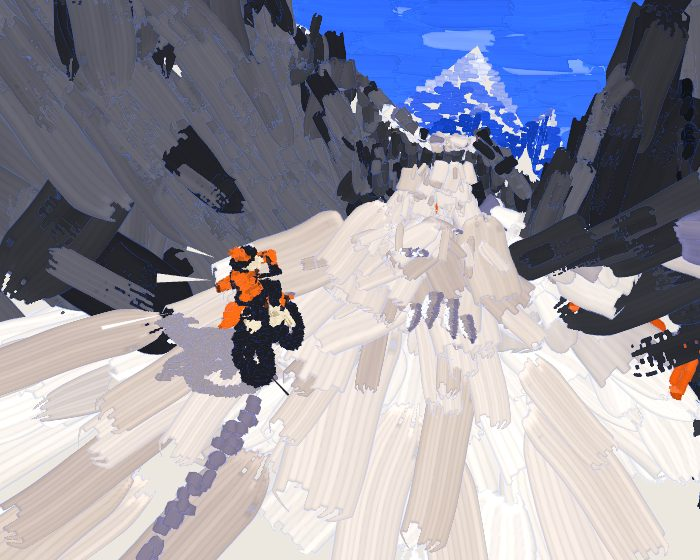
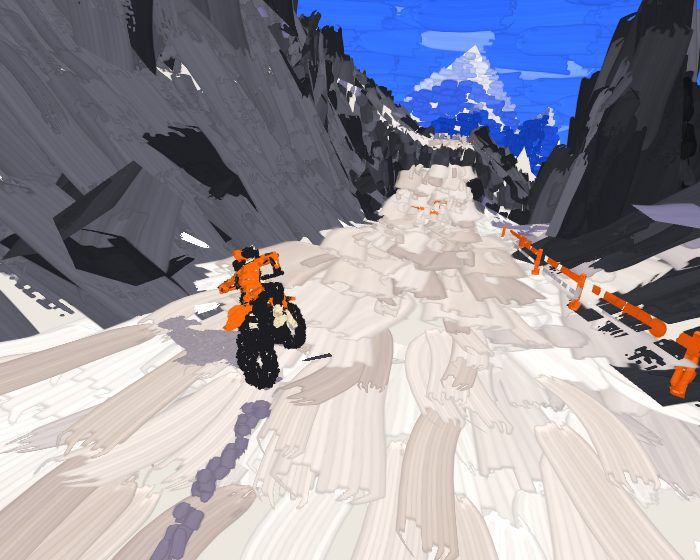
lab/switchback: painted strokes hold still; the speed layer brushed
The fighting came from how strokes answered the eye moving, not from depth:
they were built on the screen (direction from the projected tangent, turned
by their motion since the last frame), so end-on strokes swung and stretch
jittered with the shake; an anchor test against a half-size depth texture
pulsed them; and alpha-to-coverage's dithered samples crawled wherever they
overlapped. Now, after Brush Rush: each stroke is laid in the world on its
face along its own way, its width turning to face the eye with distance;
its depth lifted toward the eye along the eye ray (ground .25 + 2% of the
distance, things half their size) and tested per pixel against the facets;
stretch lengthens it along its way, never turns it; blended premultiplied
in a fixed order. Consecutive riding frames now keep each stroke the same.

The speed layer (shards, post smears, the rider's air, debris) is laid
with the same stamps, tinted. hold/ejit test flags; notes and views.

Claude-Session: https://claude.ai/code/session_01XxjdrEubiC3ZZ3ppUeUc93

diff --git a/cells/lab/client/switchback/paint.ts b/cells/lab/client/switchback/paint.ts
@@ -189,61 +189,48 @@ const SEG = 8;
 const VS = `#version 300 es
 layout(location=0) in vec2 aQ; layout(location=1) in vec4 a0; layout(location=2) in vec4 a1; layout(location=3) in vec4 a2; layout(location=4) in vec4 a3; layout(location=5) in vec4 a4;
 uniform mat4 uVP, uPrev; uniform vec3 uOff, uEye, uSun; uniform vec3 uPal[84]; uniform float uFog, uK, uMinW, uStretch, uDens, uGrow, uReveal; uniform vec2 uRes, uFront;
-uniform vec3 uSkyLo, uSkyHi, uSkyPale; uniform sampler2D uDepth; uniform float uUseDepth;
+uniform vec3 uSkyLo, uSkyHi, uSkyPale;
 out vec2 vUv; out vec3 vA; out vec3 vB; flat out float vStamp; out float vFresh;
 float h(float s, float k){ return fract(sin(s*k)*43758.5453); }
 void main(){
-  vec3 w = a0.xyz + uOff, n = a2.xyz, t = a1.xyz; float seed = a3.x, kind = a3.w; bool sky = kind > .5 && kind < 2.5, both = kind > 2.5;
-  vec3 toE = uEye - w; float dist = length(toE); toE /= max(dist, 1e-4);
+  vec3 w = a0.xyz + uOff, n = a2.xyz, T = normalize(a1.xyz); float seed = a3.x, kind = a3.w; bool sky = kind > .5 && kind < 2.5, both = kind > 2.5;
+  vec3 V = uEye - w; float dist = length(V); V /= max(dist, 1e-4);
   // (the paint front: a stroke at its station is laid, tail to head, as the front for its pass comes past; the backdrop
   // and what moves are laid as the page opens)
   float g = 1., fresh = 0.;
   if (a4.x > -1e8) { float fr = a4.y < .5 ? uFront.x : uFront.y; g = clamp((fr - a4.x)/uGrow, 0., 1.); fresh = 1. - clamp((fr - a4.x - uGrow)/25., 0., 1.); }
   else g = clamp((uReveal*1.5 - h(seed, 7.77)*.9 - (sky ? 0. : .2))/.35, 0., 1.);
   float keep = sky || both ? 1. : uDens*mix(1., .5, smoothstep(80., 900., dist));
-  // (no culling by facing: the facets' depth says what's hidden; a face turned a little away still shows)
-  if (!sky && dot(n, toE) < 0.) n = -n;
+  if (!sky && dot(n, V) < 0.) n = -n;
   // (thinned with distance: a stroke past its turn shrinks away over a little more distance, rather than going at once)
-  float thin = clamp((keep - h(seed, 12.9898))/.12 + 1., 0., 1.);
-  g *= thin;
-  if (g <= 0.) { gl_Position = vec4(2., 2., 2., 1.); return; }
-  // (a hair toward the eye, more the further: it sits over its own face)
-  if (!sky) w += toE*(both ? .03 + dist*.002 : .1 + dist*.003) + n*(both ? .01 : .03);
-  vec4 c = uVP*vec4(w, 1.), ct = uVP*vec4(w + t, 1.);
-  if (c.w < .3) { gl_Position = vec4(2., 2., 2., 1.); return; }
-  // (is where it's planted seen? the near facets' depth there, against its own: hidden, it isn't laid at all; seen, it's
-  // laid whole, over whatever edge it runs across)
-  if (uUseDepth > .5 && !sky) {
-    vec3 nd = c.xyz/c.w; vec2 uv = nd.xy*.5 + .5;
-    if (uv.x > 0. && uv.x < 1. && uv.y > 0. && uv.y < 1.) {
-      float z = texture(uDepth, uv).r*2. - 1., N = .6, F = 9000.;
-      float seen = 2.*N*F/(F + N - z*(F - N)), mine = c.w;
-      float tol = .3 + seen*.035, hid = clamp((mine - seen - tol)/tol, 0., 1.);
-      if (hid >= 1.) { gl_Position = vec4(2., 2., 2., 1.); return; }
-      g *= 1. - hid;
-    }
-  }
-  vec2 px = uRes*.5, sc = c.xy/c.w, st = ct.xy/max(ct.w, .05);
-  vec2 d = (st - sc)*px; float dl = length(d), k = uK*px.y/c.w;
-  vec2 dir = dl > 1e-4 ? d/dl : vec2(1., 0.);
-  // (thinned with distance, the ones kept are bigger, so it's still covered)
-  float grow = inversesqrt(max(keep, .3));
-  // (and never more than a part of the screen, however near)
-  float L = clamp(a1.w*k*clamp(dl/max(k, 1e-5), .5, 1.)*grow, uMinW*3., px.y*.95), W = clamp(a2.w*k*grow, uMinW, px.y*.38);
-  // (stretched along its own motion on the screen since the last frame)
+  g *= clamp((keep - h(seed, 12.9898))/.12 + 1., 0., 1.);
+  vec4 c = uVP*vec4(w, 1.);
+  if (g <= 0. || c.w < .3) { gl_Position = vec4(2., 2., 2., 1.); return; }
+  // The stroke is laid in the world, on its face, along its own way: nothing about how it lies comes from the screen, so
+  // it can't swing as the eye moves. Across it, its width turns from lying on the face toward facing the eye as it gets
+  // further off, so it never thins to a sliver (after Brush Rush).
+  vec3 Bn = normalize(cross(n, T)), Be = cross(T, V); float bl = length(Be); Be = bl > .001 ? Be/bl : Bn; if (dot(Be, Bn) < 0.) Be = -Be;
+  float face = sky ? 1. : both ? .35 + .5*smoothstep(4., 40., dist) : .15 + .75*smoothstep(5., 70., dist);
+  vec3 Wd = normalize(mix(Bn, Be, face));
+  // its size: thinned out, the ones kept are bigger; never thinner on the picture than a few pixels, never more than a part of it
+  float grow = inversesqrt(max(keep, .3)), k = uK*uRes.y*.5/c.w;
+  float len = a1.w*grow, wid = a2.w*grow;
+  wid = clamp(wid, uMinW/k, uRes.y*.19/k); len = clamp(len, wid*1.6, uRes.y*.5/k);
+  // (stretched along its own way, as far as it moves along it on the picture since the last frame: longer, never turned)
   vec4 cp = uPrev*vec4(w, 1.);
   if (cp.w > .3 && uStretch > 0. && a4.z < .5) {
-    vec2 m = (sc - cp.xy/cp.w)*px; float ml = length(m), sm = uStretch*smoothstep(4., 50., ml)*(sky ? .3 : 1.);
-    if (sm > 0.) { dir = normalize(mix(dir, m/ml, sm*.85)); L += min(ml, px.y*.22)*sm; W *= 1. - .3*sm; }
+    vec4 ct = uVP*vec4(w + T, 1.); vec2 px = uRes*.5, dT = (ct.xy/max(ct.w, .05) - c.xy/c.w)*px, m = (c.xy/c.w - cp.xy/cp.w)*px;
+    float dl = length(dT), ml = length(m);
+    if (dl > 1e-3 && ml > 4.) len += min(ml, uRes.y*.12)/k*uStretch*abs(dot(dT/dl, m/ml))*smoothstep(4., 40., ml)*(sky ? .3 : 1.);
   }
-  float u = aQ.x*g, s = (u - .5)*L, bend = a3.z; vec2 q, nr;
-  if (abs(bend) > .02) { float Rr = L/bend, an = s/Rr; q = vec2(Rr*sin(an), Rr*(1. - cos(an))); nr = vec2(-sin(an), cos(an)); } else { q = vec2(s, 0.); nr = vec2(0., 1.); }
-  q += nr*aQ.y*W*.5;
-  gl_Position = vec4(c.xy + (dir*q.x + vec2(-dir.y, dir.x)*q.y)/px*c.w, c.z, c.w);
-  // (its depth: lifted toward the eye by half its own size, along the line to the eye so it doesn't move on the picture,
-  // so a flat mark turned to the eye clears the face it's laid on instead of cutting through it; where it's tested
-  // against depth at all, nothing fights)
-  if (!sky) { float lift = max(a1.w, a2.w)*.5*grow; vec4 cl = uVP*vec4(w + toE*min(lift, dist*.5), 1.); gl_Position.z = cl.z/cl.w*c.w; }
+  float u = aQ.x*g, c2 = 2.*u - 1., s = (u - .5)*len, bend = a3.z*len*(1. - c2*c2)*.25;
+  vec3 p = w + T*s + Wd*(aQ.y*wid*.5 + bend);
+  vec4 cq = uVP*vec4(p, 1.);
+  // its depth lifted toward the eye, along the line to the eye so it doesn't move on the picture: on the ground a little,
+  // more the further (after Brush Rush), on a thing by half its own size; so it clears its own face, never cutting into it
+  float lift = sky ? 0. : both ? .02 + max(len, wid)*.5 : .25 + dist*.02 + wid*.5;
+  vec4 cl = uVP*vec4(p + V*min(lift, dist*.5), 1.);
+  gl_Position = vec4(cq.xy, cl.z/cl.w*cq.w, cq.w);
   vUv = vec2(u, aQ.y*.5 + .5); vStamp = a3.y; vFresh = fresh;
   if (sky) {
     vec3 col = mix(uSkyLo, uSkyHi, smoothstep(0., .8, a0.w));
@@ -272,7 +259,9 @@ void main(){
   vec3 c = mix(vA, vB, s.b)*(.84 + .32*s.g);
   // (fresh paint, just laid: a little lighter, wet)
   c = mix(c, c*1.1 + .04, vFresh*.3);
-  o = vec4(c, smoothstep(.05, .5, s.r));
+  // (premultiplied, blended in a fixed order: no dithered coverage to crawl as the strokes shift)
+  float a = smoothstep(.05, .5, s.r);
+  o = vec4(c*a, a);
 }`;
 
 /** a buffer of strokes, drawn instanced (`set` again for what moves) */
@@ -304,7 +293,7 @@ export class Painter {
     const p = gl.createProgram()!; gl.attachShader(p, sh(gl.VERTEX_SHADER, VS)); gl.attachShader(p, sh(gl.FRAGMENT_SHADER, FS)); gl.linkProgram(p);
     if (!gl.getProgramParameter(p, gl.LINK_STATUS)) throw new Error(gl.getProgramInfoLog(p) ?? 'link');
     this.prog = p;
-    for (const k of ['uVP', 'uPrev', 'uOff', 'uEye', 'uSun', 'uPal', 'uFog', 'uK', 'uMinW', 'uStretch', 'uDens', 'uRes', 'uAtlas', 'uSkyLo', 'uSkyHi', 'uSkyPale', 'uFront', 'uGrow', 'uReveal', 'uDepth', 'uUseDepth']) this.u[k] = gl.getUniformLocation(p, k);
+    for (const k of ['uVP', 'uPrev', 'uOff', 'uEye', 'uSun', 'uPal', 'uFog', 'uK', 'uMinW', 'uStretch', 'uDens', 'uRes', 'uAtlas', 'uSkyLo', 'uSkyHi', 'uSkyPale', 'uFront', 'uGrow', 'uReveal']) this.u[k] = gl.getUniformLocation(p, k);
     gl.useProgram(p);
     gl.uniform3fv(this.u.uPal, palette); gl.uniform3fv(this.u.uSun, new Float32Array(sun));
     gl.uniform3f(this.u.uSkyLo, 0.2, 0.42, 0.95); gl.uniform3f(this.u.uSkyHi, 0.015, 0.2, 0.82); gl.uniform3f(this.u.uSkyPale, 0.62, 0.72, 0.98);
@@ -337,14 +326,7 @@ export class Painter {
     const fr = this.front ?? [-1e9, -1e9]; gl.uniform2f(this.u.uFront, fr[0], fr[1]); gl.uniform1f(this.u.uGrow, this.grow);
     gl.uniform1f(this.u.uReveal, Math.min(1, (performance.now() - this.born) / 1600));
     gl.activeTexture(gl.TEXTURE0); gl.bindTexture(gl.TEXTURE_2D, this.atlas); gl.uniform1i(this.u.uAtlas, 0);
-    gl.uniform1i(this.u.uDepth, 1); gl.uniform1f(this.u.uUseDepth, 0);
-    gl.enable(gl.SAMPLE_ALPHA_TO_COVERAGE); gl.depthMask(false);
-  }
-  /** strokes from here on are laid only where they're planted on something seen (the near facets' depth, in `tex`) */
-  seenBy(tex: WebGLTexture | null) {
-    const gl = this.gl;
-    gl.activeTexture(gl.TEXTURE1); gl.bindTexture(gl.TEXTURE_2D, tex); gl.activeTexture(gl.TEXTURE0);
-    gl.uniform1f(this.u.uUseDepth, tex ? 1 : 0);
+    gl.enable(gl.BLEND); gl.blendFuncSeparate(gl.ONE, gl.ONE_MINUS_SRC_ALPHA, gl.ZERO, gl.ONE); gl.depthMask(false);
   }
   draw(s: Strokes, off: number[], fog: boolean) {
     const gl = this.gl;
@@ -352,5 +334,49 @@ export class Painter {
     gl.uniform3f(this.u.uOff, off[0], off[1], off[2]); gl.uniform1f(this.u.uFog, fog ? 1 : 0);
     gl.bindVertexArray(s.vao); gl.drawArraysInstanced(gl.TRIANGLE_STRIP, 0, (SEG + 1) * 2, s.n);
   }
-  end() { const gl = this.gl; gl.disable(gl.SAMPLE_ALPHA_TO_COVERAGE); gl.depthMask(true); gl.bindVertexArray(null); }
+  end() { const gl = this.gl; gl.disable(gl.BLEND); gl.depthMask(true); gl.bindVertexArray(null); }
+}
+
+// ─── the speed layer's brush ────────────────────────────────────────────────────────────────────────────────────────────
+
+/**
+ * The same stamps, for the 2D speed layer (shards, smears, the air off the rider, debris), when the picture's painted:
+ * a wedge (thick at its base, to its point) becomes a long brush stroke tapering the same way; a chip of debris a dab.
+ * Each colour's stamps are tinted once and kept.
+ */
+export class Brush2D {
+  private atlas: { data: Uint8Array; w: number; h: number };
+  private tinted = new Map<string, HTMLCanvasElement>();
+  constructor() { this.atlas = stampAtlas(); }
+  private sheet(col: string) {
+    let c = this.tinted.get(col);
+    if (c) return c;
+    const { data, w, h } = this.atlas, r = parseInt(col.slice(1, 3), 16), g = parseInt(col.slice(3, 5), 16), b = parseInt(col.slice(5, 7), 16);
+    c = document.createElement('canvas'); c.width = w; c.height = h;
+    const x = c.getContext('2d')!, img = x.createImageData(w, h);
+    for (let i = 0; i < w * h; i++) {
+      const cov = data[i * 4] / 255, rel = data[i * 4 + 1] / 255, tone = data[i * 4 + 2] / 255, k = 0.84 + 0.3 * rel + (tone - 0.5) * 0.12;
+      img.data[i * 4] = Math.min(255, r * k); img.data[i * 4 + 1] = Math.min(255, g * k); img.data[i * 4 + 2] = Math.min(255, b * k);
+      img.data[i * 4 + 3] = Math.round(255 * Math.min(1, Math.max(0, (cov - 0.05) / 0.45)));
+    }
+    x.putImageData(img, 0, 0);
+    this.tinted.set(col, c);
+    return c;
+  }
+  /** a stroke from its base at `a` (half-width w) to its point at `b`, in stamp `st` */
+  wedge(ctx: CanvasRenderingContext2D, a: number[], b: number[], w: number, col: string, st = 7) {
+    const dx = b[0] - a[0], dy = b[1] - a[1], L = Math.hypot(dx, dy);
+    if (L < 1) return;
+    const W = Math.max(1.6, w * 2.6), cell = [(st % STAMP.COLS) * STAMP.W, Math.floor(st / STAMP.COLS) * STAMP.H];
+    ctx.save(); ctx.translate(a[0], a[1]); ctx.rotate(Math.atan2(dy, dx));
+    ctx.drawImage(this.sheet(col), cell[0], cell[1], STAMP.W, STAMP.H, -L * 0.03, -W / 2, L * 1.06, W);
+    ctx.restore();
+  }
+  /** a dab, `s` across, turned by `a` */
+  dab(ctx: CanvasRenderingContext2D, p: number[], s: number, a: number, col: string) {
+    const st = 3, cell = [(st % STAMP.COLS) * STAMP.W, Math.floor(st / STAMP.COLS) * STAMP.H];
+    ctx.save(); ctx.translate(p[0], p[1]); ctx.rotate(a);
+    ctx.drawImage(this.sheet(col), cell[0], cell[1], STAMP.W, STAMP.H, -s * 1.3, -s * 0.6, s * 2.6, s * 1.2);
+    ctx.restore();
+  }
 }

diff --git a/cells/lab/client/switchback/render.ts b/cells/lab/client/switchback/render.ts
@@ -17,7 +17,7 @@ import type { Rider, Event } from './sim';
 import { GEARS } from './audio';
 import { buildRuts, Trail } from './ruts';
 import { buildGouges } from './gouge';
-import { Painter, Strokes, strokesOver, skyStrokes, lineOf } from './paint';
+import { Painter, Strokes, Brush2D, strokesOver, skyStrokes, lineOf } from './paint';
 
 const VS = `#version 300 es
 in vec4 aP; uniform mat4 uVP; uniform vec3 uOff; uniform float uZj; out vec3 vW; flat out int vM;
@@ -201,14 +201,12 @@ export class Renderer {
       gl.colorMask(true, true, true, true); gl.stencilFunc(gl.NOTEQUAL, 1, 0xff);
       paintBegin(); for (const b of this.backStrokes) pt.draw(b, off, false); pt.end(); gl.useProgram(this.prog);
       gl.disable(gl.STENCIL_TEST);
-      // (what's near: its facets' depth into a texture, for each stroke to ask whether where it's planted is seen; then
-      // its strokes, laid far to near, each whole, over whatever edge it runs across)
-      const [dw, dh] = this.seenTarget();
-      gl.bindFramebuffer(gl.FRAMEBUFFER, this.seenFbo); gl.viewport(0, 0, dw, dh); gl.clear(gl.DEPTH_BUFFER_BIT);
+      // (what's near: its facets only in the depth; then its strokes, laid in the world on them and lifted a little toward
+      // the eye, tested against that depth pixel by pixel, far chunks first)
+      gl.clear(gl.DEPTH_BUFFER_BIT);
       gl.colorMask(false, false, false, false); near(); gl.colorMask(true, true, true, true);
-      gl.bindFramebuffer(gl.FRAMEBUFFER, null); gl.viewport(0, 0, this.canvas.width, this.canvas.height);
-      gl.disable(gl.DEPTH_TEST);
-      paintBegin(); pt.seenBy(this.seenTex);
+      gl.depthFunc(gl.LEQUAL);
+      paintBegin();
       // (the ground's strokes, the far chunks first so the near paint over them at the edges)
       for (const n of [...this.strokes.keys()].sort((a, b) => b - a)) pt.draw(this.strokes.get(n)!, [0, 0, 0], this.fog);
       // (and what moves, each face's strokes its own, so they stay put on it)
@@ -220,7 +218,7 @@ export class Renderer {
       for (const p of parts) { all.set(p, at); at += p.length; }
       if (!this.moving) this.moving = pt.make(all, true); else this.moving.set(all);
       pt.draw(this.moving, [0, 0, 0], this.fog);
-      pt.seenBy(null); pt.end(); gl.enable(gl.DEPTH_TEST); gl.useProgram(this.prog);
+      pt.end(); gl.depthFunc(gl.LESS); gl.useProgram(this.prog);
     } else {
     // (the far ranges, round the eye and a little below it, unfaded)
     gl.uniform1f(this.u.uFog, 0); gl.uniform3f(this.u.uOff, view.eye[0], view.eye[1] - 60, view.eye[2]); this.ranges.draw(); this.valley.draw();
@@ -244,22 +242,6 @@ export class Renderer {
     // (the speed layer)
     if (this.speed) this.fx.draw(this, view, r, dt); else { this.ctx.setTransform(1, 0, 0, 1, 0, 0); this.ctx.clearRect(0, 0, this.overlay.width, this.overlay.height); }
   }
-  /** the depth target the painted strokes ask (half the canvas: it's only asked at each stroke's anchor) */
-  private seenFbo: WebGLFramebuffer | null = null; private seenTex: WebGLTexture | null = null; private seenSize = [0, 0];
-  private seenTarget(): [number, number] {
-    const gl = this.gl, w = Math.max(1, this.canvas.width >> 1), h = Math.max(1, this.canvas.height >> 1);
-    if (this.seenSize[0] !== w || this.seenSize[1] !== h) {
-      if (this.seenTex) gl.deleteTexture(this.seenTex);
-      if (!this.seenFbo) this.seenFbo = gl.createFramebuffer();
-      this.seenTex = gl.createTexture(); gl.bindTexture(gl.TEXTURE_2D, this.seenTex);
-      gl.texImage2D(gl.TEXTURE_2D, 0, gl.DEPTH_COMPONENT24, w, h, 0, gl.DEPTH_COMPONENT, gl.UNSIGNED_INT, null);
-      for (const [k, v] of [[gl.TEXTURE_MIN_FILTER, gl.NEAREST], [gl.TEXTURE_MAG_FILTER, gl.NEAREST], [gl.TEXTURE_WRAP_S, gl.CLAMP_TO_EDGE], [gl.TEXTURE_WRAP_T, gl.CLAMP_TO_EDGE]]) gl.texParameteri(gl.TEXTURE_2D, k, v);
-      gl.bindFramebuffer(gl.FRAMEBUFFER, this.seenFbo); gl.framebufferTexture2D(gl.FRAMEBUFFER, gl.DEPTH_ATTACHMENT, gl.TEXTURE_2D, this.seenTex, 0);
-      gl.drawBuffers([gl.NONE]); gl.readBuffer(gl.NONE); gl.bindFramebuffer(gl.FRAMEBUFFER, null);
-      this.seenSize = [w, h];
-    }
-    return [w, h];
-  }
   /** a world point on the screen (css px) and its depth, or null behind the eye */
   project(p: number[]): [number, number, number] | null {
     const m = this.vp, x = m[0] * p[0] + m[4] * p[1] + m[8] * p[2] + m[12], y = m[1] * p[0] + m[5] * p[1] + m[9] * p[2] + m[13], w = m[3] * p[0] + m[7] * p[1] + m[11] * p[2] + m[15];
@@ -282,6 +264,8 @@ type Peel = { ia: number; ib: number; f: number; dir: number[]; age: number; lif
 
 /** the speed layer: shards, smears, wake and debris, all flat vector shapes */
 export class Fx {
+  /** painted: the speed layer laid in the same brush stamps */
+  private brush: Brush2D | null = null;
   debris: Chunk[] = []; gusts: Gust[] = []; pushes: Streak[] = []; grit: Streak[] = []; peels: Peel[] = []; private peelDue = 0; private peelP = new Float32Array(0);
   /** what the ride's doing, as the speed layer (and the eye's field of view) read it: the push (0…1, speeding up on the
    * ground), the brake (0…1, slowing), a shift's pulse (at each change up the engine's gears, as the sound has them) and a
@@ -331,7 +315,9 @@ export class Fx {
     this.push += (push - this.push) * (1 - Math.exp(-dt * 6)); this.brake += (brake - this.brake) * (1 - Math.exp(-dt * 6));
     const scrub = ground ? Math.min(1, Math.abs(r.slip) * 3) : 0;
     /** a wedge: its base across `a` (half-width w, square to the motion), its point at `b` */
+    const br = rd.paint ? (this.brush ??= new Brush2D()) : null;
     const wedge = (a: number[], b: number[], w: number, col: string) => {
+      if (br) { br.wedge(c, a, b, w, col); return; }
       const dx = b[0] - a[0], dy = b[1] - a[1], L = Math.hypot(dx, dy) || 1, nx = -dy / L * w, ny = dx / L * w;
       c.fillStyle = col; c.beginPath(); c.moveTo(a[0] + nx, a[1] + ny); c.lineTo(b[0], b[1]); c.lineTo(a[0] - nx, a[1] - ny); c.closePath(); c.fill();
     };
@@ -374,6 +360,7 @@ export class Fx {
       const s = (d.r * rd.H) / p[2]; if (s < 0.6) continue;
       const q = rd.project([d.x - (d.vx - cv[0]) * 0.05, d.y - (d.vy - cv[1]) * 0.05, d.z - (d.vz - cv[2]) * 0.05]);
       if (q && Math.hypot(q[0] - p[0], q[1] - p[1]) > s * 1.5) wedge(p, q, s * 0.75, d.col);
+      if (br) { br.dab(c, p, s, d.a, d.col); continue; }
       c.fillStyle = d.col; c.beginPath();
       const ca = Math.cos(d.a), sa = Math.sin(d.a);
       for (let j = 0; j < d.pts.length; j += 2) { const x = d.pts[j] * s, y = d.pts[j + 1] * s; c[j ? 'lineTo' : 'moveTo'](p[0] + x * ca - y * sa, p[1] + x * sa + y * ca); }

diff --git a/cells/lab/client/switchback/main.ts b/cells/lab/client/switchback/main.ts
@@ -31,7 +31,8 @@ import { C15R } from './hand';
 const q = new URLSearchParams(location.search);
 const seed = Number(q.get('seed') ?? 1) | 0 || 1, preview = q.has('preview'), still = q.has('still');
 const look = q.get('look');
-const zjit = q.has('zjit');
+const zjit = q.has("zjit"), ejit = q.has("ejit"), hold = q.has("hold"), t0 = performance.now();
+let heldView: View | null = null;
 /** straight into it (tests, pinned frames, the preview): no title */
 const direct = preview || still || q.has('auto') || q.has('t') || !!look;
 let auto = q.has('auto') || preview || !direct;
@@ -338,7 +339,12 @@ function loop(now: number) {
   // (`zjit`: every face's depth nudged a few steps every other frame, nothing else moved, for finding where faces fight in
   // depth: a held frame that changes under it is fighting)
   rd.zjit = zjit ? (drawn % 2) * 2.4e-7 : 0;
-  rd.frame(view(paused ? 0 : dt, t), rider, t, still || paused ? 0 : dt, drawn++ < 2 ? 99 : 1);
+  // (`ejit`: the eye moved 1 cm every other frame, for seeing what a small move of the eye does to the strokes)
+  // (a test (`zjit`, `ejit`, `hold`) holds the eye where it's settled after a few seconds, so only what's tested moves)
+  const vw = (zjit || ejit || hold) && heldView && performance.now() - t0 > 4000 ? heldView : view(paused ? 0 : dt, t);
+  if ((zjit || ejit || hold) && !heldView && performance.now() - t0 > 4000) heldView = { ...vw, eye: vw.eye.slice(), target: vw.target.slice() };
+  if (ejit) { const e = (drawn % 2) * 0.01; vw.eye = [vw.eye[0] + e, vw.eye[1], vw.eye[2]]; vw.target = [vw.target[0] + e, vw.target[1], vw.target[2]]; }
+  rd.frame(vw, rider, t, still || paused ? 0 : dt, drawn++ < 2 ? 99 : 1);
   seen = rider.events.length; sound.sync(seen);
   if (rider.air) bigAir = Math.max(bigAir, rider.airT);
   // (the run's end: its finish reached, its last life gone (once you're put back after the third fall))

diff --git a/cells/lab/static/switchback.md b/cells/lab/static/switchback.md
@@ -88,7 +88,7 @@ The world is built in 48-metre chunks: a cross-section every four metres, a few 
 
 With them, your own track is the same mark, fresh and a shade darker: strokes laid behind the rear tyre as you ride, a little kinked at each joint, wider where the rear was sliding, broken where you were in the air, the last 30 m of it kept. A crash keeps it until you're put back at the flag.
 
-**Nothing fights in depth.** The ground under the road sinks away from it (0.15 m at its edges, 0.45 m under its middle), so the two never lie in one plane however the road's roughness and the 4 m between the ground's sections fall; what's laid on the ground (the road, its ruts and gouges, the rider's shadow) is drawn a hair toward the eye in depth; and the eye's near plane is 0.6 m (it was 0.3), which doubles the depth's precision everywhere. `node cells/lab/devtools/switchback-zfight.mjs [query …]` finds what's left: a held frame drawn with every face's depth, and nothing else, nudged a few steps every other frame (`zjit`); what changes between the frames is fighting.
+**Nothing fights in depth.** The ground under the road sinks away from it (0.15 m at its edges, 0.45 m under its middle), so the two never lie in one plane however the road's roughness and the 4 m between the ground's sections fall; what's laid on the ground (the road, its ruts and gouges, the rider's shadow) is drawn a hair toward the eye in depth; and the eye's near plane is 0.6 m (it was 0.3), which doubles the depth's precision everywhere. `node cells/lab/devtools/switchback-zfight.mjs [query …]` finds what's left (the eye held where it settles, `hold`): a held frame drawn with every face's depth, and nothing else, nudged a few steps every other frame (`zjit`); what changes between the frames is fighting.
 
 ## Speed, drawn
 
@@ -109,14 +109,15 @@ Motion is drawn as vector shapes on a canvas over the world, never as blurred pi
 An experiment in drawing the mountain as paint, after looking closely at a brush-shader snowboard prototype (Brush Rush) and its sibling (Paris Freestyle). Everything you see is a brush stroke on paper: the sky, the ranges, the mountain, the road, the fence, the pines, the flags, the rider and its shadow. Nothing is underpainted: the facets are still built, but only drawn into the depth, for what hides what.
 
 - **Strokes with a reason to be where they are.** Planted on the ground's faces when a chunk is built, in two passes: the **masses** (big and broad) and the **detail** over them. They run the way the ground runs: along the road and the snow beside it, turning across the slope further off, down the face on rock, level on the far ranges. Fine by the road, broad away from it, so the picture simplifies where you're not looking. Things (the fence, the posts, the pines, the kickers, the rider, a flag) are painted in small strokes along each face's longest edge, on both sides; what moves is painted afresh each frame, each face's strokes seeded by the face, so they stay put on it.
-- **Seen, or not at all.** The near facets' depth is drawn into a texture, and each stroke asks it whether the point it's planted on is seen. Hidden, it isn't laid; seen, it's laid whole, over whatever edge it runs across, so silhouettes are brushed, not cut. The sky is painted only where nothing stands, the ranges only where nothing near stands (a stencil), so a gap shows paper, never the wrong thing behind.
+- **Laid in the world, so they hold still** (after Brush Rush). A stroke lies on its face along its own way; across it, its width turns from lying on the face toward facing the eye as it gets further off, so it never thins to a sliver. Nothing about how it lies comes from the screen, so it can't swing as the eye moves (they were built on the screen at first, their direction from the way their face ran on the picture and their motion since the last frame, and they swung and jumped as you rode). Its depth is lifted toward the eye along the line to the eye (on the ground a little, more the further; on a thing by half its own size), so it clears its own face, and it's tested pixel by pixel against the facets' depth: hidden where something stands in front. The sky is painted only where nothing stands, the ranges only where nothing near stands (a stencil), so a gap shows paper, never the wrong thing behind. Strokes are blended (premultiplied) in a fixed order: they were drawn with alpha-to-coverage, whose dithered samples crawled wherever strokes overlapped.
 - **The paint front.** The mountain is painted in ahead of you. Each stroke is laid, tail to head, as a front passes its station: the masses' front well ahead (420 m, out in the haze), the detail's close (110 m), so you see the snow's and the rock's detail brushed in over the masses as you come. Strokes just laid are a little lighter for a moment, wet. As the page opens the fronts set out from the rider and run on ahead; put back at a checkpoint, what's laid stays laid. `front=420,110` sets them.
 - **Covered.** The masses overlap; strokes thinned out with distance grow to cover what the others left; near the eye they stay broad (as a painting's foreground), never wider than a part of the screen. A few percent of paper shows, mostly at silhouettes.
 - **The facets' own colours.** Each stroke takes its face's band as the facets pick it (a little jittered), its bristles mixing toward the band next to it.
-- **Nothing fights, nothing pops** (after Brush Rush's own answers). A stroke is a flat mark turned to the eye, so where it's tested against depth it would cut through the face it's laid on and fight along the cut: its depth is lifted toward the eye by half its own size, along the line to the eye, so it doesn't move on the picture. Where a stroke's anchor is near hidden, or its turn to be thinned out with distance comes, it shrinks away rather than going at once. What's built afresh each frame keeps its strokes: the rider by its faces, the flags and the falls by where they are; the gouges aren't painted at all (they're cut to the eye, so their faces change as you ride), the road's own strokes running along it instead.
-- **Stretched along its own motion.** Each stroke is drawn back toward where it was on the screen a frame ago, as far as it moved, so the speed is in the ground's marks (`stretch=0` none, `stretch=2` twice; not on what moves with you, nor on a held frame or a jump).
+- **Nothing pops.** A stroke whose turn to be thinned out with distance comes shrinks away rather than going at once. What's built afresh each frame keeps its strokes: the rider by its faces, the flags and the falls by where they are; the gouges aren't painted (they're cut to the eye, so their faces change as you ride), the road's own strokes running along it instead.
+- **Stretched along its own way.** Each stroke grows longer by as far as it moved along its own way on the picture since the last frame, never turned, so the speed is in the ground's marks (`stretch=0` none, `stretch=2` twice; not on what moves with you, nor on a held frame or a jump).
+- **The speed layer too.** Its shards, the smears off the posts, the air off the rider and the debris are laid with the same stamps, tinted: a wedge becomes a long stroke tapering the same way, a chip a dab.
 
-The marks come from an atlas of brush stamps made when the page loads: each a brush of bristles, every bristle with its own load of paint, touching down and lifting a little apart from the rest, running dry along the stroke, and piling paint where it lifts. They're drawn instanced, with alpha-to-coverage, laid far to near.
+The marks come from an atlas of brush stamps made when the page loads: each a brush of bristles, every bristle with its own load of paint, touching down and lifting a little apart from the rest, running dry along the stroke, and piling paint where it lifts. They.re drawn instanced, blended (premultiplied) in a fixed order, far chunks first.
 
 Cost: tens of thousands of strokes; a chunk's take about 7 ms to place as it's built; what moves (the rider, its shadow, the flags, the ruts) is re-painted on the CPU each frame. Untried on a phone.
 
